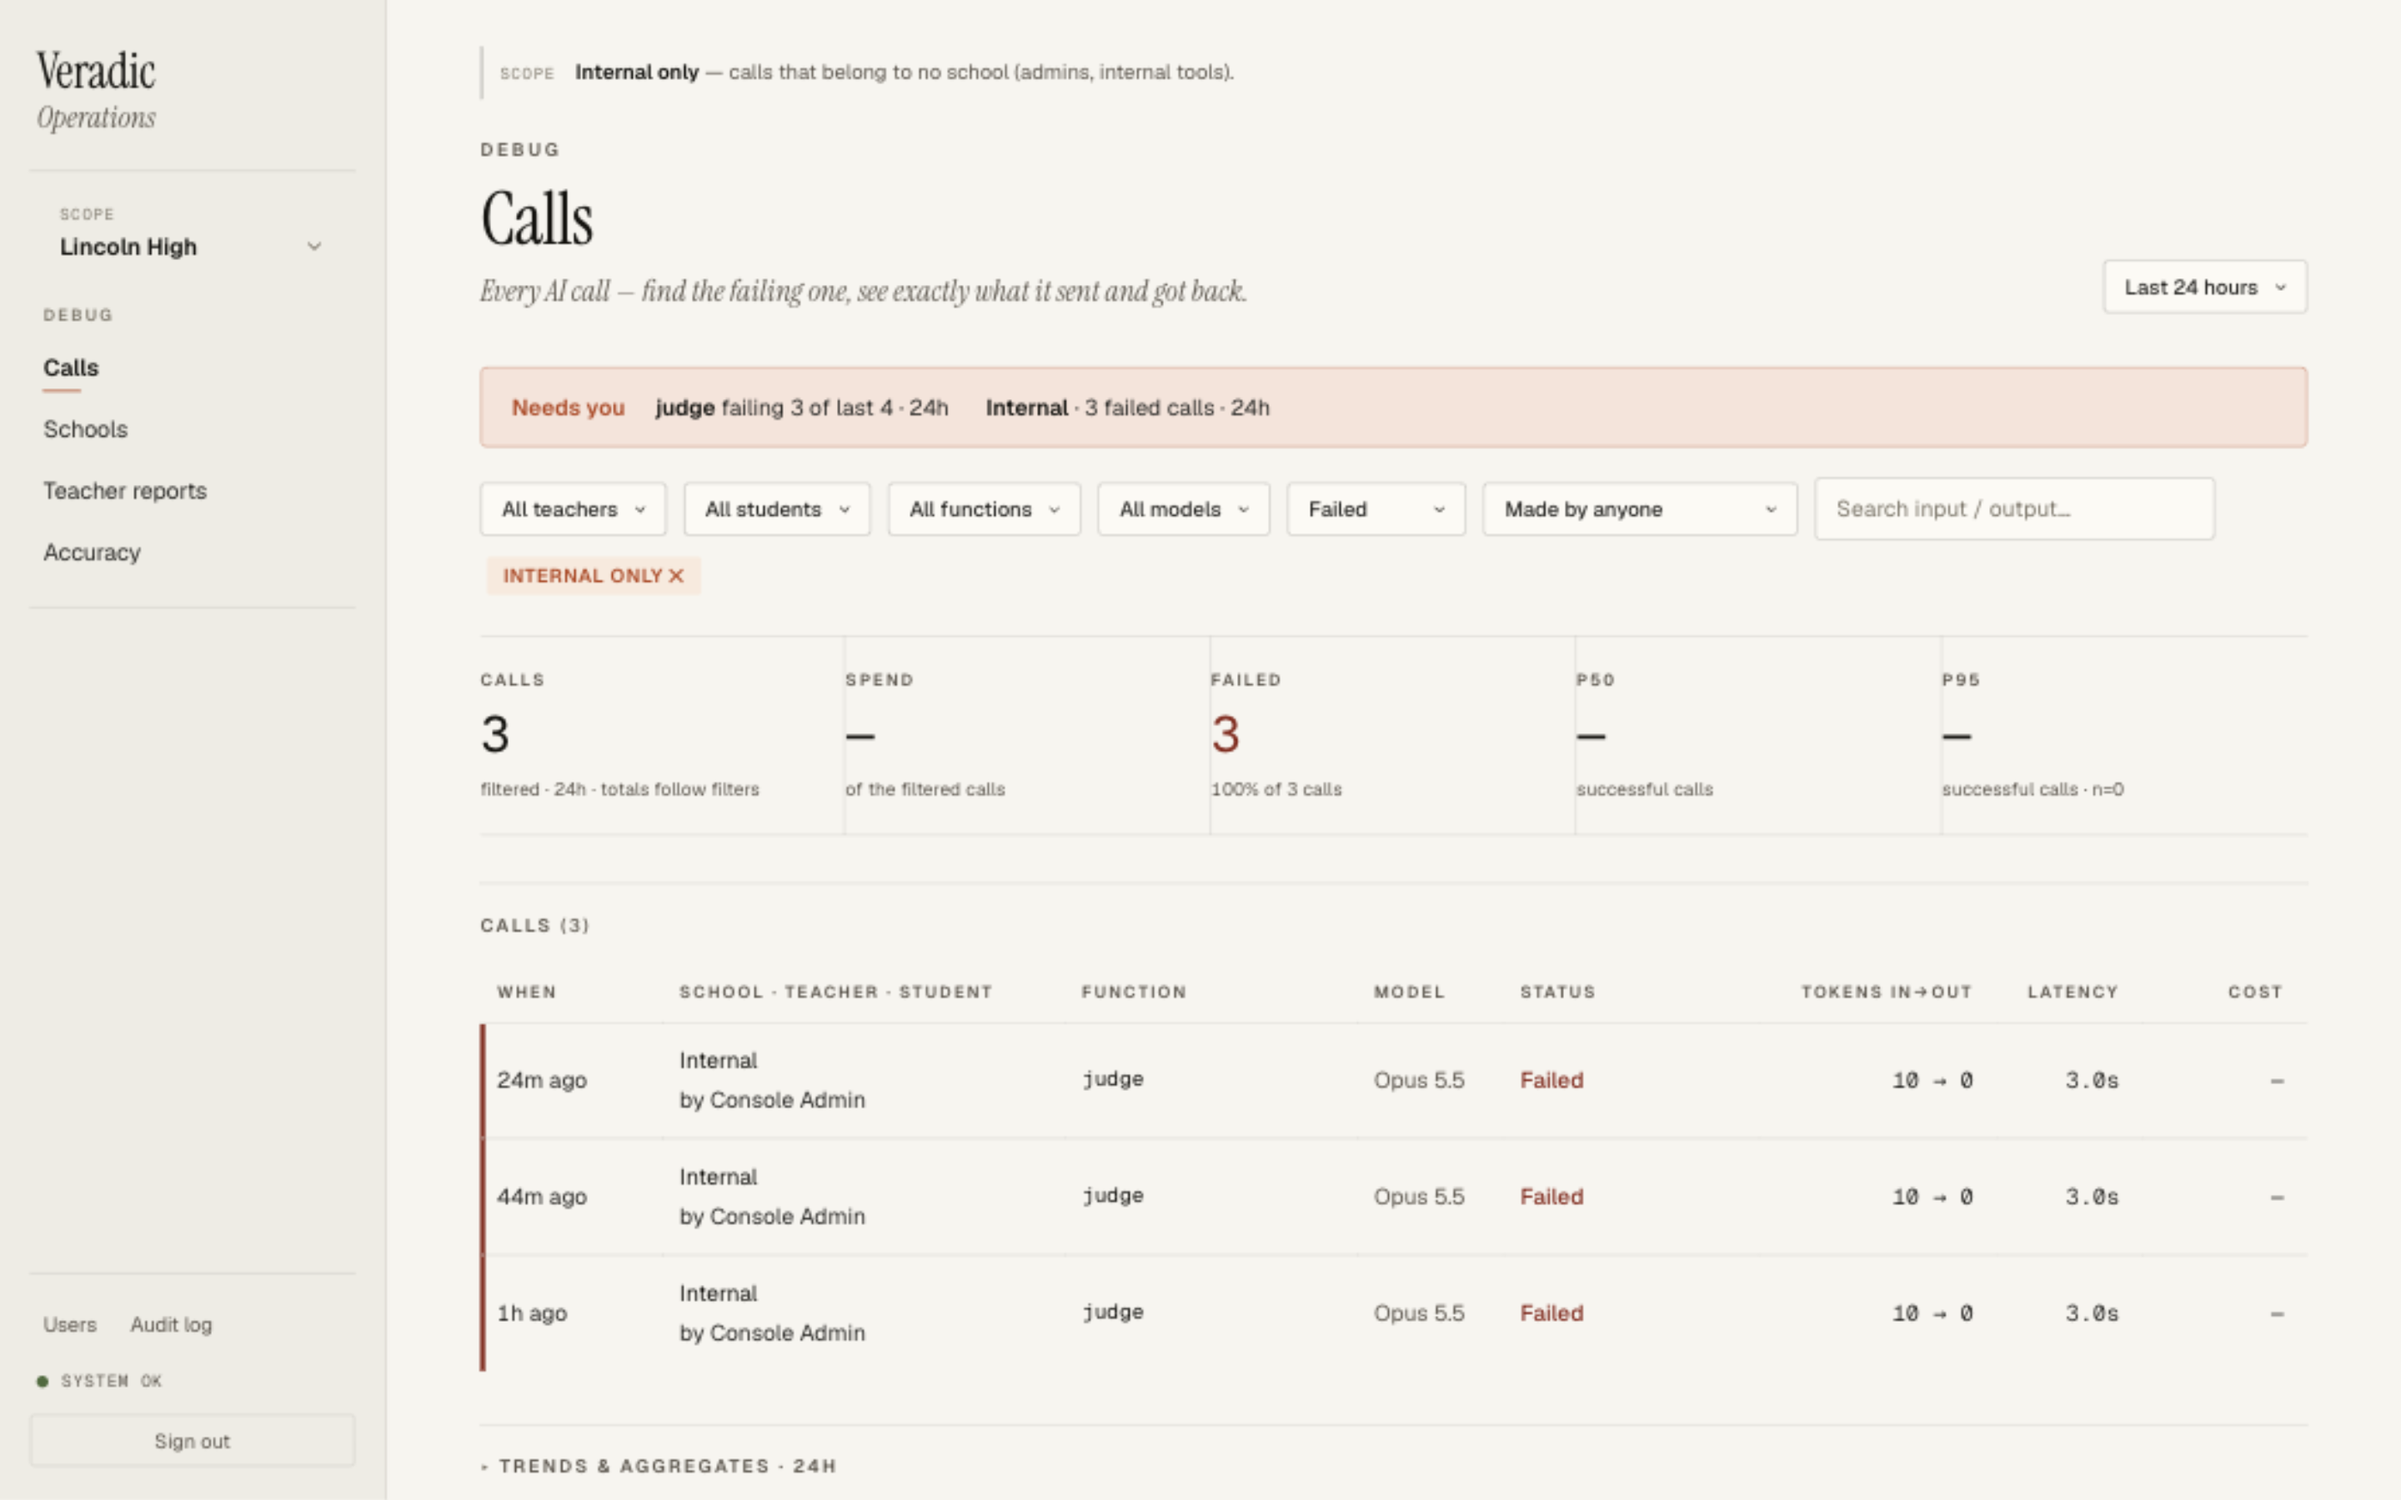
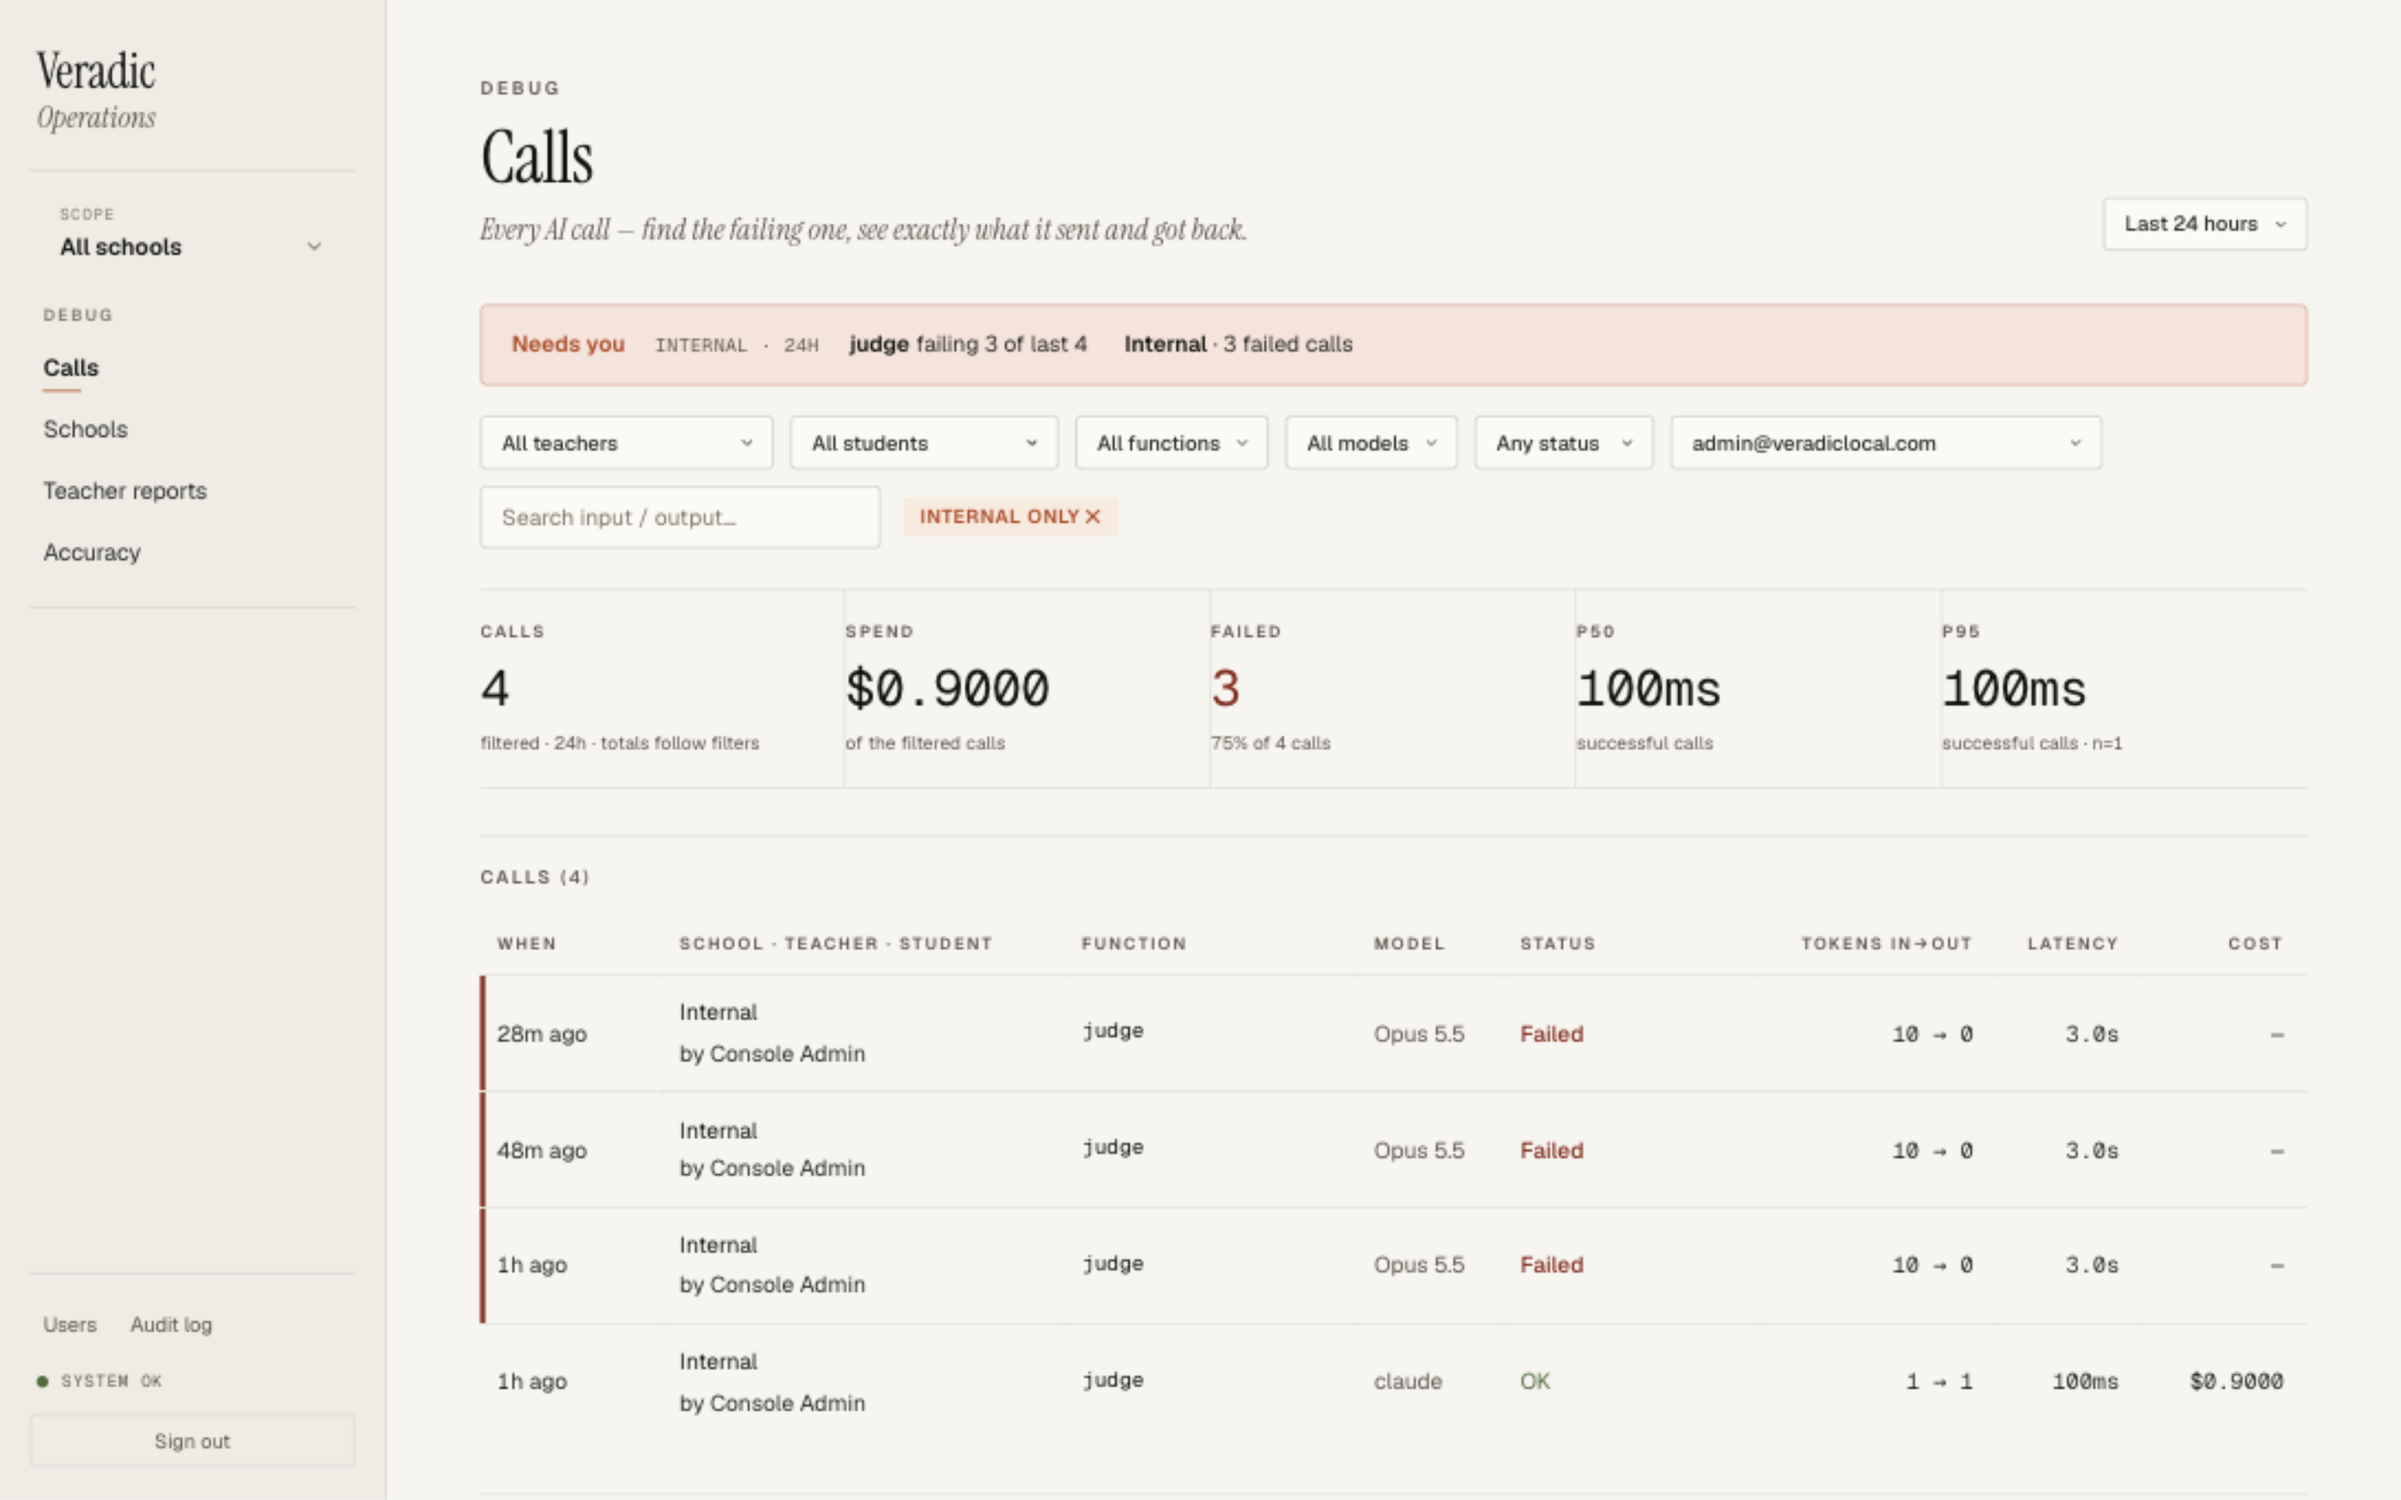
fix: review round 3 — the band names the place it counts; Internal only is the Calls page's alone
- AttentionBand shows its place (school, Internal or All schools · 24h),
  since on a person-filtered page nothing else says it.
- The Internal-only badge stays visible (and removable) under an entity
  filter.
- One INTERNAL_SCHOOL + isInternalOnly() in pageScope, used by Calls,
  the scope line and the switcher; the scope line only reads it on Calls.

diff --git a/dashboard/src/pages/LLMCalls.tsx b/dashboard/src/pages/LLMCalls.tsx
@@ -5,7 +5,8 @@ import {
   PieChart, Pie, Cell, Legend, AreaChart, Area, LineChart, Line,
 } from "recharts";
 import { api, type LLMCallsData } from "../lib/api";
-import { scopeParams, useSchoolScope } from "../lib/useSelectedSchool";
+import { scopeParams, useSchoolScope, useSelectedSchool } from "../lib/useSelectedSchool";
+import { INTERNAL_SCHOOL, isInternalOnly } from "../lib/pageScope";
 import { formatRelativeDate, shortModel, shortId, fmtCost, fmtLatency } from "../lib/format";
 import AttentionBand from "../components/AttentionBand";
 import CallDrawer from "../components/CallDrawer";
@@ -22,9 +23,6 @@ const COLORS = ["#14130f", "#4a6b3a", "#b8431a", "#3d5a78", "#a66b15", "#6b21a8"
 type CallRow = LLMCallsData["calls"][number];
 type Status = "" | "ok" | "failed";
 
-
-/** The calls-with-no-school bucket; the API takes it as a school_id. */
-const INTERNAL_SCHOOL = "internal";
 export default function LLMCalls() {
   const [searchParams, setSearchParams] = useSearchParams();
   const confirm = useConfirm();
@@ -56,14 +54,13 @@ export default function LLMCalls() {
   // admin's calls belong to no school. pageScope() treats these URLs as
   // single-thing pages for the same reason.
   const scope = useSchoolScope();
+  const selected = useSelectedSchool();
   const entityFilter = Boolean(
     userFilter || teacherFilter || studentFilter || assignmentFilter || submissionFilter || sessionFilter,
   );
-  // `?school=internal` narrows to calls with no school (admin, internal
-  // tools). The rail can't hold that bucket — its scope is a real school
-  // or all of them — so the page keeps it in the URL as its own filter;
-  // a school id in `?school=` is taken by the rail instead (Layout).
-  const internalOnly = searchParams.get("school") === INTERNAL_SCHOOL;
+  // "Internal only" (see INTERNAL_SCHOOL); a school id in `?school=` is
+  // taken by the rail instead (Layout).
+  const internalOnly = isInternalOnly("/llm-calls", `?${searchParams.toString()}`);
   const placeFilter = internalOnly ? INTERNAL_SCHOOL : scope;
   const schoolFilter = entityFilter ? null : placeFilter;
   const status: Status = ((): Status => {
@@ -228,7 +225,7 @@ export default function LLMCalls() {
   // one is on — a filtered total must not read as the window's.
   const narrowed = Boolean(fnFilter || modelFilter || status || search || entityFilter);
   const badges: { key: string; label: string; title: string }[] = [
-    internalOnly && !entityFilter && { key: "school", label: "Internal only", title: "Calls that belong to no school" },
+    internalOnly && { key: "school", label: "Internal only", title: "Calls that belong to no school" },
     assignmentFilter && { key: "assignment", label: `Homework: ${shortId(assignmentFilter)}`, title: "Every call on a submission to this homework" },
     submissionFilter && { key: "submission", label: `Submission: ${shortId(submissionFilter)}`, title: submissionFilter },
     sessionFilter && { key: "session", label: `Session: ${shortId(sessionFilter)}`, title: sessionFilter },
@@ -278,6 +275,7 @@ export default function LLMCalls() {
         // The place only — never the narrower filters, which a band click
         // clears — so the list it lands on is the set it counted.
         schoolId={placeFilter}
+        placeLabel={internalOnly ? "Internal" : selected.name ?? (scope ? "this school" : "All schools")}
         onFunction={(fn, failedOnly) => followBand({ function: fn, status: failedOnly ? "failed" : "" })}
         onSchool={(id) => followBand({ school: id, status: "failed" })}
       />

diff --git a/dashboard/src/components/AttentionBand.tsx b/dashboard/src/components/AttentionBand.tsx
@@ -10,9 +10,12 @@ import { scopeParams } from "../lib/useSelectedSchool";
  * wrong: a calm one-liner, not an empty box.
  */
 export default function AttentionBand({
-  schoolId, onFunction, onSchool,
+  schoolId, placeLabel, onFunction, onSchool,
 }: {
   schoolId: string | null;
+  /** The place the band counts — named on the band, since on a page
+   *  filtered to one person nothing else on screen says it. */
+  placeLabel: string;
   /** Open one function's calls over the last 24h — its failures only
    *  when the line is about failing, all of them when it's about speed. */
   onFunction: (fn: string, failedOnly: boolean) => void;
@@ -37,13 +40,15 @@ export default function AttentionBand({
     return (
       <div className="attention-band attention-calm" role="status">
         <strong>All clear</strong>
-        <span>No function failing, no school with failed calls, no latency jump in the last 24h.</span>
+        <span className="attention-place">{placeLabel} · 24h</span>
+        <span>No function failing, no school with failed calls, no latency jump.</span>
       </div>
     );
   }
   return (
     <div className="attention-band attention-alert" role="region" aria-label="Needs you">
       <strong>Needs you</strong>
+      <span className="attention-place">{placeLabel} · 24h</span>
       <ul>
         {items.map((it) => (
           <li key={itemKey(it)}>
@@ -67,9 +72,9 @@ function itemKey(it: AttentionItem): string {
 function describe(it: AttentionItem) {
   switch (it.kind) {
     case "function_failing":
-      return <><b>{it.function}</b> failing {it.failed} of last {it.of} · 24h</>;
+      return <><b>{it.function}</b> failing {it.failed} of last {it.of}</>;
     case "school_failures":
-      return <><b>{it.school_name}</b> · {it.failed} failed calls · 24h</>;
+      return <><b>{it.school_name}</b> · {it.failed} failed calls</>;
     case "p95_up":
       return <><b>{it.function}</b> p95 up to {fmtLatency(it.p95_ms)} (was {fmtLatency(it.was_ms)})</>;
   }

diff --git a/dashboard/src/components/SchoolSwitcher.tsx b/dashboard/src/components/SchoolSwitcher.tsx
@@ -1,6 +1,6 @@
 import { useLocation, useNavigate } from "react-router-dom";
 import { setSchoolScope, type SelectedSchool } from "../lib/useSelectedSchool";
-import { pageScope, schoolLabel } from "../lib/pageScope";
+import { isInternalOnly, pageScope, schoolLabel } from "../lib/pageScope";
 
 /** The <select> value for All schools. Never a real id (ids are UUIDs). */
 const ALL = "";
@@ -41,9 +41,10 @@ export default function SchoolSwitcher({ selected }: { selected: SelectedSchool 
       // Picking a scope also ends the Calls page's "Internal only" filter
       // (?school=internal), or the pick would change nothing on screen.
       const params = new URLSearchParams(search);
-      if (params.has("offset") || params.get("school") === "internal") {
+      const internal = isInternalOnly(pathname, search);
+      if (params.has("offset") || internal) {
         params.delete("offset");
-        if (params.get("school") === "internal") params.delete("school");
+        if (internal) params.delete("school");
         navigate({ pathname, search: params.toString() }, { replace: true });
       }
     }

diff --git a/dashboard/src/components/Layout.tsx b/dashboard/src/components/Layout.tsx
@@ -3,7 +3,7 @@ import { NavLink, Outlet, useLocation, useNavigate } from "react-router-dom";
 import { apiHealth, getToken, setToken } from "../lib/api";
 import SchoolSwitcher from "./SchoolSwitcher";
 import { setSchoolScope, useSelectedSchool, type SelectedSchool } from "../lib/useSelectedSchool";
-import { pageScope, schoolLabel } from "../lib/pageScope";
+import { pageScope, schoolLabel, isInternalOnly } from "../lib/pageScope";
 
 interface NavItem {
   to: string;
@@ -73,9 +73,9 @@ function ScopeLine({ school }: { school: SelectedSchool }) {
     );
   }
 
-  // The Calls page's "Internal only" filter (?school=internal): calls that
-  // belong to no school. Not a rail scope, but it is what the page shows.
-  if (new URLSearchParams(search).get("school") === "internal") {
+  // The Calls page's "Internal only" filter: not a rail scope, but it is
+  // what the page shows.
+  if (isInternalOnly(pathname, search)) {
     return (
       <div className="scope-line" role="note">
         <span className="scope-line-label">Scope</span>

diff --git a/dashboard/src/lib/pageScope.ts b/dashboard/src/lib/pageScope.ts
@@ -59,3 +59,14 @@ export function schoolLabel(s: {
   const where = [s.city, s.state].filter(Boolean).join(", ");
   return where ? `${s.name} — ${where}` : s.name;
 }
+
+/** The Calls page's bucket of calls with no school (admins, internal
+ *  tools); the API takes it as a school_id. Not a rail scope — the rail
+ *  holds a real school or all of them — so the Calls page alone keeps it
+ *  in its URL as `?school=internal`. */
+export const INTERNAL_SCHOOL = "internal";
+
+/** True on the Calls page while its "Internal only" filter is on. */
+export function isInternalOnly(pathname: string, search: string): boolean {
+  return pathname === "/llm-calls" && new URLSearchParams(search).get("school") === INTERNAL_SCHOOL;
+}

diff --git a/dashboard/src/index.css b/dashboard/src/index.css
@@ -3002,3 +3002,4 @@ table.dt tr:last-child td { border-bottom: none; }
 /* Five numbers in one row at every level, even on a narrow page. */
 .calls-panel .tile-grid { grid-template-columns: repeat(5, minmax(0, 1fr)); }
 .calls-panel .stat-tile { min-width: 0; }
+.attention-place { font-family: var(--font-mono); font-size: 11px; letter-spacing: 0.04em; text-transform: uppercase; color: var(--muted); white-space: nowrap; }
